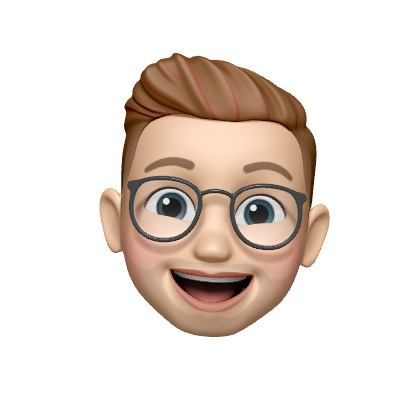
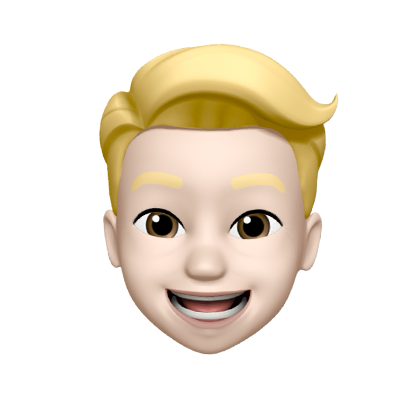
Refresh portfolio content and tech stack

Changed region(s): [[0.2167, 0.0929, 0.8048, 0.8667]]

diff --git a/src/sections/Hero.tsx b/src/sections/Hero.tsx
@@ -1,7 +1,7 @@
 import Image from "next/image";
-import memojiImage from "@/assets/images/memoji-computer.png"
 import ArrowDown from "@/assets/icons/arrow-down.svg"
 import grainImage from "@/assets/images/grain.jpg"
+import profileImage from "@/assets/images/profile.png"
 import StarIcon from "@/assets/icons/star.svg"
 import { HeroOrbit } from "@/components/HeroOrbit";
 import SparkleIcon from "@/assets/icons/sparkle.svg"
@@ -9,7 +9,7 @@ import SparkleIcon from "@/assets/icons/sparkle.svg"
 export const HeroSection = () => {
   return (
     <section id="home" className="py-32 md:py-48 lg:py-60 relative z-0 overflow-x-clip scroll-mt-24">
-      <div className="absolute inset-0 [mask-image:linear-gradient(to_bottom,transparent,black_10%,black_70%,transparent)]">
+      <div className="pointer-events-none absolute inset-0 [mask-image:linear-gradient(to_bottom,transparent,black_10%,black_70%,transparent)]">
         <div className="absolute inset-0 -z-30 opacity-5" style={{
           backgroundImage: `url(${grainImage.src})`
         }}></div>
@@ -18,7 +18,6 @@ export const HeroSection = () => {
         <div className="size-[1020px] hero-ring"></div>
         <div className="size-[1220px] hero-ring"></div>
 
-        {/*Orbit animation section*/}
         <HeroOrbit size={430} rotation={-14} shouldOrbit orbitDuration="30s" shouldSpin spinDuration="5s">
           <SparkleIcon className="size-8 text-emerald-300/20" />
         </HeroOrbit>
@@ -51,30 +50,41 @@ export const HeroSection = () => {
         </HeroOrbit>
       </div>
 
-      <div className="container">
-        <div className="flex flex-col items-center">
-          <Image src={memojiImage} alt="Placeholder for emoji" className="size-[100px]" />
+      <div className="container relative z-10">
+        <div className="flex flex-col items-center rounded-full">
+          <Image
+            src={profileImage}
+            alt="Profile picture"
+            sizes="200px"
+            className="h-auto w-[200px] [filter:drop-shadow(1px_0_0_#1f2937)_drop-shadow(-1px_0_0_#1f2937)_drop-shadow(0_1px_0_#1f2937)_drop-shadow(0_-1px_0_#1f2937)]"
+          />
           <div className="bg-gray-950 border border-gray-800 px-4 py-1.5 inline-flex items-center gap-4 rounded-lg">
             <div className="bg-green-500 size-2.5 rounded-full relative"><div className="bg-green-500 inset-0 rounded-full absolute animate-ping-large"></div></div>
             <div className="text-sm font-medium">Available for new projects</div>
           </div>
         </div>
         <div className="max-w-lg mx-auto">
-          <h1 className="font-serif text-3xl md:text-5xl text-center mt-8 tracking-wide">Building Exceptional User Experiences</h1>
+          <h1 className="font-serif text-3xl md:text-5xl text-center mt-8 tracking-wide">Turning Ideas into Software Solutions</h1>
           <p className="mt-4 text-center text-white/60 md:text-lg">
-            I specialize in web applications and internal tools that automate workflows,
-            modernize legacy systems, and deliver measurable business value.
+            I build web applications and internal tools that automate workflows,
+            modernize legacy systems, and help businesses run more efficiently.
           </p>
         </div>
         <div className="flex flex-col md:flex-row justify-center items-center mt-8 gap-4">
-          <button className="inline-flex items-center gap-2 border border-white/15 px-6 h-12 rounded-xl">
+          <a
+            href="#projects"
+            className="inline-flex items-center gap-2 border border-white/15 px-6 h-12 rounded-xl"
+          >
             <span className="font-semibold">Explore My Work</span>
             <ArrowDown className="size-4" />
-          </button>
-          <button className="inline-flex items-center gap-2 border border-white bg-white text-gray-900 h-12 px-6 rounded-xl">
-            <span>👋</span>
+          </a>
+          <a
+            href="#contact"
+            className="inline-flex items-center gap-2 border border-white bg-white text-gray-900 h-12 px-6 rounded-xl"
+          >
+            <span>&#128075;</span>
             <span className="font-semibold">Let&apos;s Connect</span>
-          </button>
+          </a>
         </div>
       </div>
 

diff --git a/src/sections/About.tsx b/src/sections/About.tsx
@@ -8,11 +8,15 @@ import bookImage4 from "@/assets/images/book-cover4.png"
 import bookImage5 from "@/assets/images/book-cover5.png"
 import Image from "next/image";
 import JavascriptIcon from "@/assets/icons/square-js.svg"
-import HTMLIcon from "@/assets/icons/html5.svg"
-import CssIcon from "@/assets/icons/css3.svg"
+import NETCoreIcon from "@/assets/icons/.NET-core.svg"
+import PostgresIcon from "@/assets/icons/PostgresSQL.svg"
 import ReactIcon from "@/assets/icons/react.svg"
-import ChromeIcon from "@/assets/icons/chrome.svg"
+import NextIcon from "@/assets/icons/Next.js.svg"
 import GithubIcon from "@/assets/icons/github.svg"
+import TypescriptIcon from "@/assets/icons/TypeScript.svg"
+import DockerIcon from "@/assets/icons/Docker.svg"
+import AzureIcon from "@/assets/icons/Azure.svg"
+import TailwindIcon from "@/assets/icons/Tailwind-CSS.svg"
 import mapImage from "@/assets/images/map.png"
 import smileMemoji from "@/assets/images/memoji-smile.png"
 import { CardHeader } from "@/components/CardHeader";
@@ -23,29 +27,48 @@ import { useRef, useState } from "react";
 
 const toolboxItems = [
   {
-    title: 'JavaScript',
-    iconType: JavascriptIcon,
+    title: '.NET', 
+    iconType: NETCoreIcon,
   },
   {
-    title: 'HTML5', //.NET
-    iconType: HTMLIcon,
+    title: 'Next.js',
+    iconType: NextIcon,
   },
   {
-    title: 'CSS3', //Postgres
-    iconType: CssIcon,
+    title: 'Postgres', 
+    iconType: PostgresIcon,
   },
   {
     title: 'React',
     iconType: ReactIcon,
   },
   {
-    title: 'Chrome', //Docker
-    iconType: ChromeIcon,
+    title: 'JavaScript',
+    iconType: JavascriptIcon,
+    iconClassName: 'rounded-lg overflow-hidden',
+  },
+  {
+    title: 'TypeScript',
+    iconType: TypescriptIcon,
+    iconClassName: 'rounded-lg overflow-hidden',
+  },
+  {
+    title: 'Tailwind CSS',
+    iconType: TailwindIcon,
   },
   {
     title: 'GitHub',
     iconType: GithubIcon,
   },
+  {
+    title: 'Docker',
+    iconType: DockerIcon,
+  },
+  {
+    title: 'Azure',
+    iconType: AzureIcon,
+  },
+  
 ]
 
 const hobbies = [
@@ -126,11 +149,11 @@ export const AboutSection = () => {
   return (
     <section id="about" className="py-20 lg:py-28 scroll-mt-24">
       <div className="container">
-        <SectionHeader eyebrow="About me" title="A Glimpse Into My World" description="Learn more about who I am, what I do, and what inspires me." />
+        <SectionHeader eyebrow="About me" title="A Glimpse Into My World" description="A glimpse into the interests, routines, and technologies that shape what I do." />
         <div className="mt-20 flex flex-col gap-8">
           <div className="grid grid-cols-1 gap-8 md:grid md:grid-cols-5 lg:grid-cols-3">
             <Card className="h-[320px] md:col-span-2 lg:col-span-1">
-              <CardHeader title="My Reads" description="Explore the books shaping my perspectives." />
+              <CardHeader title="My Reads" description="Books that influence my perspective." />
 
               <div className="w-40 mx-auto mt-2 md:mt-0 relative" onTouchStart={handleTouchStart} onTouchEnd={handleTouchEnd}>
                 <Image src={bookImages[currentBookIndex]} alt="Book cover" />
@@ -164,7 +187,7 @@ export const AboutSection = () => {
               </div>
             </Card>
             <Card className="h-[320px] md:col-span-3 lg:col-span-2">
-              <CardHeader title="My Toolbox" description="Explore the technologies and tools I use to create exceptional digital experiences."
+              <CardHeader title="My Toolbox" description="Explore the technologies and tools I use to create scalable software solutions."
                 className="" />
 
               <ToolboxItems items={toolboxItems} className="" itemsWrapperClassName="animate-move-left [animation-duration:30s]" />

diff --git a/src/sections/Projects.tsx b/src/sections/Projects.tsx
@@ -10,15 +10,15 @@ import { Card } from "@/components/Card";
 
 const portfolioProjects = [
   {
-    company: "Acme Corp",
-    year: "2022",
-    title: "Dark Saas Landing Page",
+    company: "Metropolitan University",
+    year: "2026",
+    title: "Online University Course Editor",
     results: [
-      { title: "Enhanced user experience by 40%" },
-      { title: "Improved site speed by 50%" },
-      { title: "Increased mobile traffic by 35%" },
+      { title: "5x more responsive than predecesor" },
+      { title: "Lecture creation time reduced by 75%" },
+      { title: "Loss of progress incidents reduced to minimum" },
     ],
-    link: "https://youtu.be/4k7IdSLxh6w",
+    link: "https://nextjs-university-lecture-creator.vercel.app/",
     image: darkSaasLandingPage,
   },
   {
@@ -28,22 +28,10 @@ const portfolioProjects = [
     results: [
       { title: "Average lecture quality increased by 25%" },
       { title: "Improved application speed by 50%" },
-      { title: "Web components migrated to WebView2" },
+      { title: "Lead migration of components to WebView2" },
     ],
     link: "",
     image: lightSaasLandingPage,
-  },
-  {
-    company: "Quantum Dynamics",
-    year: "2023",
-    title: "AI Startup Landing Page",
-    results: [
-      { title: "Enhanced user experience by 40%" },
-      { title: "Improved site speed by 50%" },
-      { title: "Increased mobile traffic by 35%" },
-    ],
-    link: "https://youtu.be/Z7I5uSRHMHg",
-    image: aiStartupLandingPage,
   },
 ];
 
@@ -90,7 +78,7 @@ export const ProjectsSection = () => {
                   ) : (
                     <a href={project.link}>
                       <button className="bg-white text-gray-950 h-12 w-full md:w-auto px-6 rounded-xl font-semibold inline-flex items-center justify-center gap-2 mt-8">
-                        <span>Visit Live Site</span>
+                        <span>Visit Live Demo</span>
                         <ArrowUpRightIcon className="size-4" />
                       </button>
                     </a>

diff --git a/src/components/ToolboxItems.tsx b/src/components/ToolboxItems.tsx
@@ -7,6 +7,7 @@ export const ToolboxItems = ({ items, className, itemsWrapperClassName }: {
     items: {
         title: string;
         iconType: React.ElementType;
+        iconClassName?: string;
     }[];
     className?: string;
     itemsWrapperClassName?: string;
@@ -19,7 +20,7 @@ export const ToolboxItems = ({ items, className, itemsWrapperClassName }: {
                     <Fragment key={index}>
                         {items.map(item => (
                             <div key={item.title} className="inline-flex items-center gap-4 py-2 px-3 outline outline-2 outline-white/10 rounded-lg">
-                                <TechIcon component={item.iconType} />
+                                <TechIcon component={item.iconType} className={item.iconClassName} />
                                 <span className="font-semibold">{item.title}</span>
                             </div>
                         ))}

diff --git a/src/components/TechIcon.tsx b/src/components/TechIcon.tsx
@@ -1,14 +1,9 @@
-export const TechIcon = ({ component }: { component: React.ElementType }) => {
+import { twMerge } from "tailwind-merge";
+
+export const TechIcon = ({ component, className }: { component: React.ElementType; className?: string }) => {
     const Component = component;
+
     return (
-        <>
-            <Component className="size-10 fill-[url(#tech-icon-gradient)]" />
-            <svg className="size-0 absolute">
-                <linearGradient id="tech-icon-gradient">
-                    <stop offset="0%" stopColor="rgb(110 231 183)" />
-                    <stop offset="100%" stopColor="rgb(56 189 248)" />
-                </linearGradient>
-            </svg>
-        </>
+        <Component className={twMerge("size-10 shrink-0 text-white", className)} />
     )
 }
